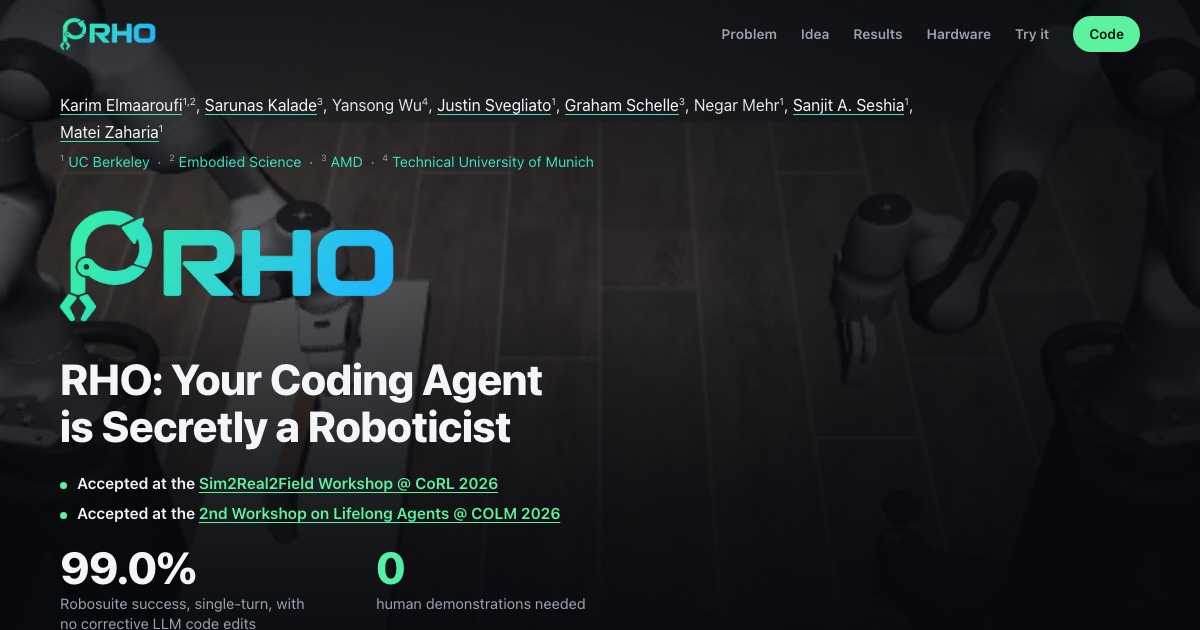
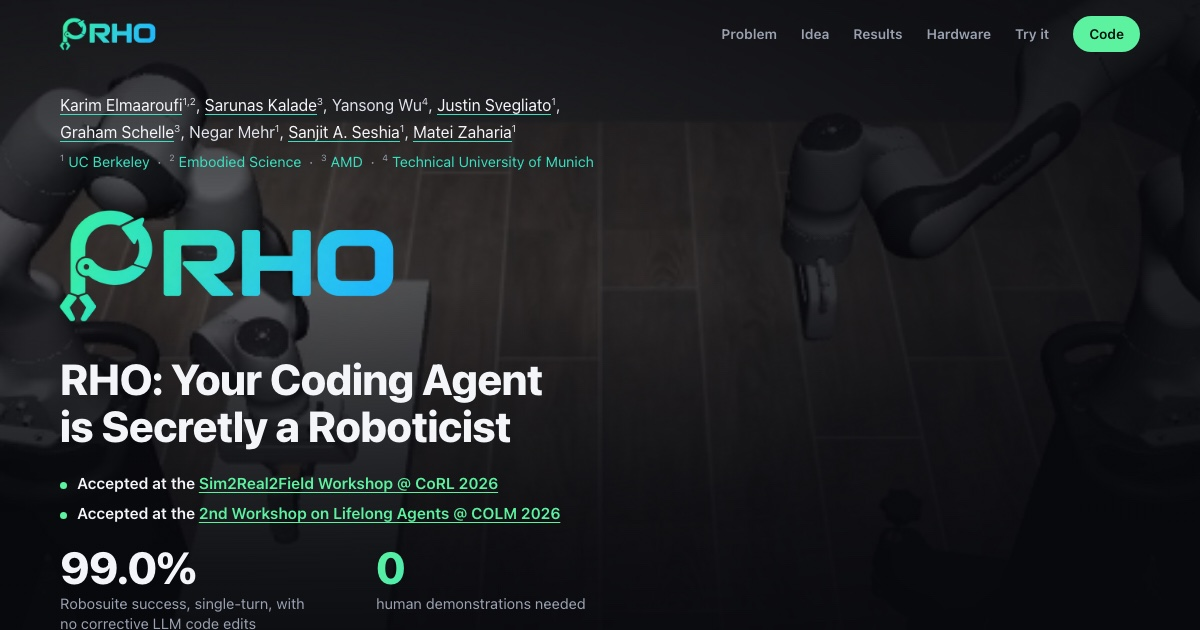
Break the author line before Graham Schelle

diff --git a/index.html b/index.html
@@ -68,7 +68,7 @@
       <a href="https://kael.tech.blog/" target="_blank" rel="noopener">Karim Elmaaroufi</a><sup>1,2</sup>,
       <a href="https://www.linkedin.com/in/skalade/" target="_blank" rel="noopener">Sarunas Kalade</a><sup>3</sup>,
       Yansong Wu<sup>4</sup>,
-      <a href="https://justinsvegliato.com/" target="_blank" rel="noopener">Justin Svegliato</a><sup>1</sup>,
+      <a href="https://justinsvegliato.com/" target="_blank" rel="noopener">Justin Svegliato</a><sup>1</sup>,<br>
       <a href="https://www.linkedin.com/in/graham-schelle-2401556/" target="_blank" rel="noopener">Graham Schelle</a><sup>3</sup>,
       Negar Mehr<sup>1</sup>,
       <a href="https://people.eecs.berkeley.edu/~sseshia/" target="_blank" rel="noopener">Sanjit A. Seshia</a><sup>1</sup>,
